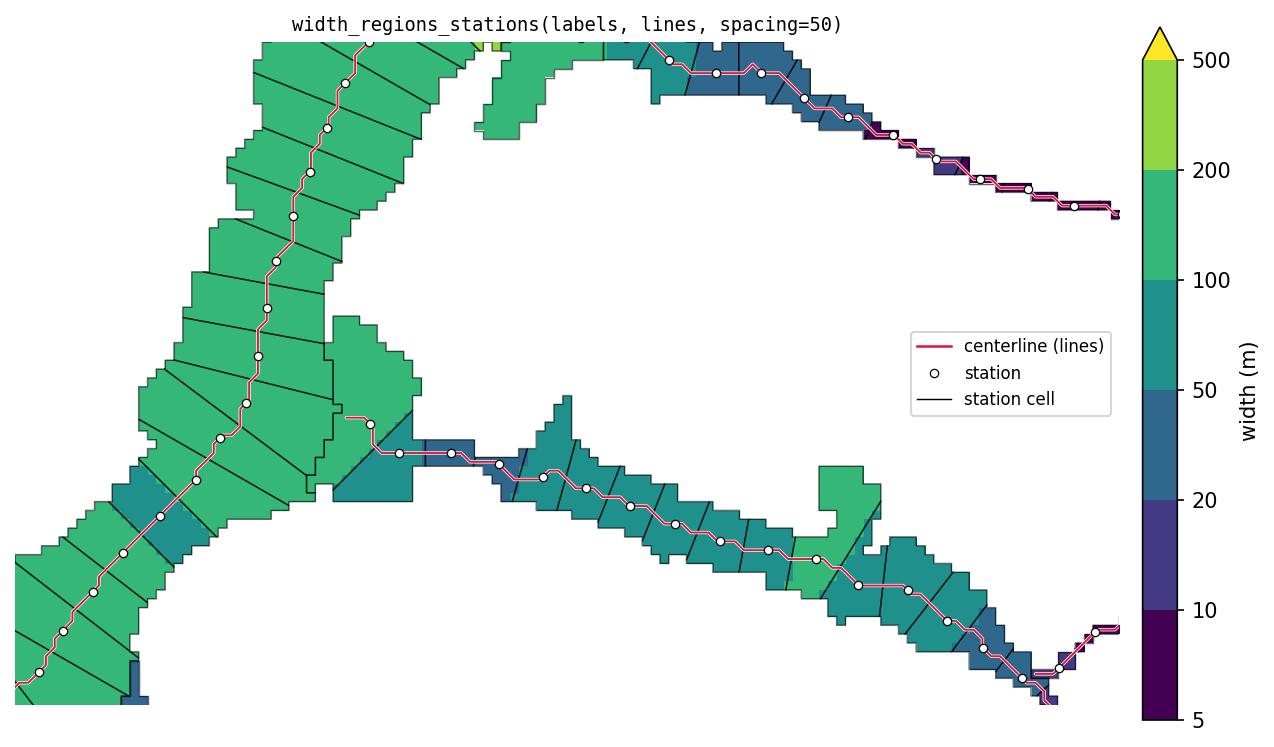
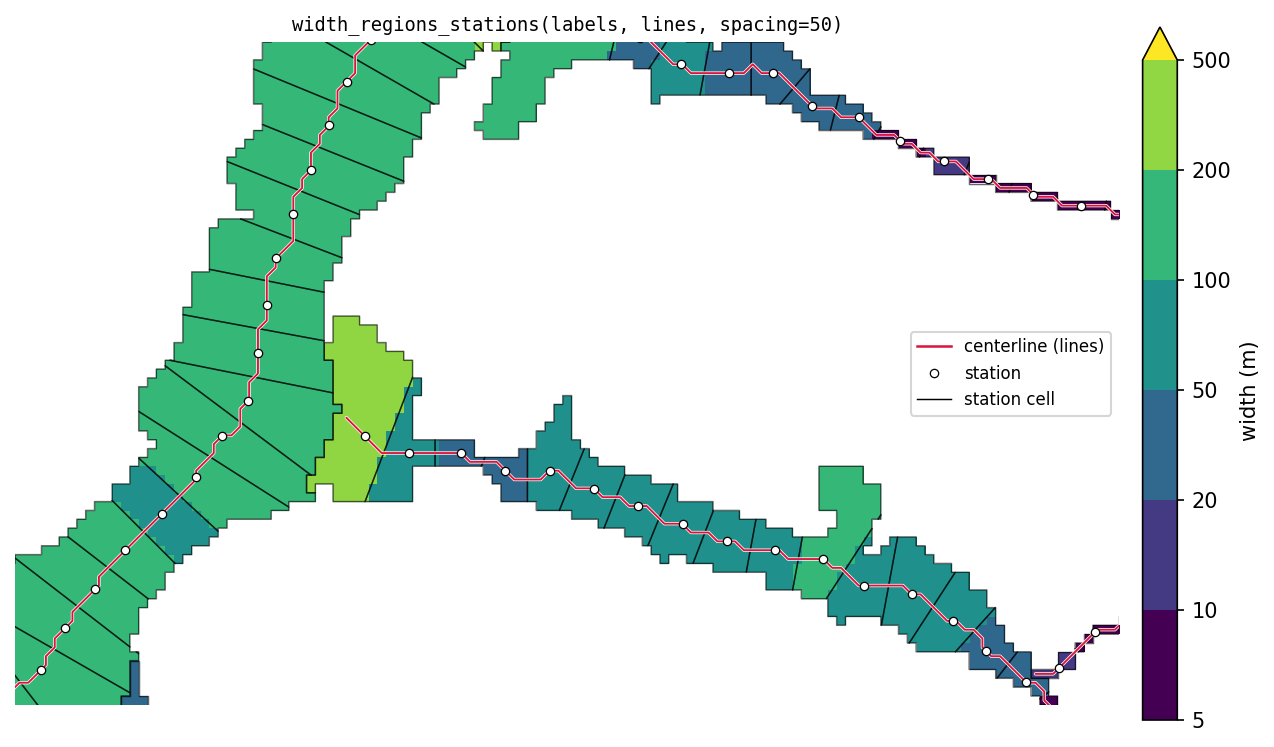
add a step to clean teh centerline where the root meets the skeleton

diff --git a/tests/test_partition.py b/tests/test_partition.py
@@ -158,3 +158,65 @@ def test_length_path_by_uses_max_not_sum():
     assert by_head[(0, 5)]["path_id"] == trunk_path
     assert by_head[(0, 15)]["path_id"] == trunk_path  # longest single route wins
     assert by_head[(3, 5)]["path_id"] != trunk_path
+
+
+def test_net_root_end_has_no_sideways_snap(toy_dataset, end_deviation):
+    # same straightening as centerline(): the bundled root sits beside the
+    # skeleton, which the uncut network meets at a right angle
+    mask, root, tips = toy_dataset
+    mask_np = (np.asarray(mask.values) == 1).astype(np.uint8)
+    _, net, _ = ramify.partition_priority(mask_np, root, tips=tips)
+    outlet = net[net["downstream_segment_id"].isna()].geometry.iloc[0]
+    assert outlet.coords[0] == (root[1] + 0.5, root[0] + 0.5)
+    assert end_deviation(outlet) < 1.0  # ~4.8 px before the cut
+
+
+def test_net_tip_end_skips_skeleton_fork(flared_bar, end_deviation):
+    from shapely.geometry import LineString
+
+    mask, tip, root = flared_bar  # flared end as the (given) tip
+    _, net, _ = ramify.partition_priority(mask, root, tips=[tip])
+    (line,) = net.geometry  # no junctions: one segment, cut at both ends
+    assert line.coords[-1] == (tip[1] + 0.5, tip[0] + 0.5)
+    assert end_deviation(LineString(line.coords[::-1])) < 1.0
+
+
+def _network_is_intact(df, mask_bool):
+    by_id = dict(zip(df["segment_id"], df["pixels"]))
+    for seg_id, down, pixels in zip(df["segment_id"], df["downstream_segment_id"], df["pixels"]):
+        steps = zip(pixels[:-1], pixels[1:])
+        if not all(max(abs(a[0] - b[0]), abs(a[1] - b[1])) == 1 for a, b in steps):
+            return False
+        if not all(mask_bool[r, c] for r, c in pixels):
+            return False
+        # segments run upstream -> downstream, sharing the junction pixel
+        if not pd.isna(down) and pixels[-1] != by_id[int(down)][0]:
+            return False
+    return True
+
+
+def test_end_cut_stops_at_junction_near_root():
+    from skimage.draw import polygon
+    from ramify.partition import _build_network
+
+    # flared end with a thin tributary joining inside the root's end disk:
+    # the root cut must stay on the short root segment, not swallow the
+    # junction
+    mask = np.zeros((50, 70), dtype=np.uint8)
+    rr, cc = polygon([14, 22, 22, 38, 38, 46], [4, 24, 66, 66, 24, 4])
+    mask[rr, cc] = 1
+    mask[1:20, 14:16] = 1
+    root, tips = (30, 4), [(30, 65), (1, 14)]
+    df = _build_network(mask > 0, root, tips, None, "area", None, 1.0)
+    assert len(df) == 3
+    assert (df["downstream_segment_id"].isna()).sum() == 1
+    assert _network_is_intact(df, mask > 0)
+
+
+def test_end_cuts_keep_toy_network_intact(toy_dataset):
+    from ramify.partition import _build_network
+
+    mask, root, tips = toy_dataset
+    mask_bool = np.asarray(mask.values) == 1
+    df = _build_network(mask_bool, root, tips, None, "area", None, 1.0)
+    assert _network_is_intact(df, mask_bool)

diff --git a/tests/test_centerline.py b/tests/test_centerline.py
@@ -106,3 +106,61 @@ def test_output_is_plain_ndarray_free(toy_dataset):
     mask_np = (np.asarray(mask.values) == 1).astype(np.uint8)
     assert isinstance(ramify.centerline(mask, root=root), LineString)
     assert isinstance(ramify.centerline(mask_np, root=root), LineString)
+
+
+def test_root_end_skips_skeleton_fork(flared_bar, end_deviation, inside_mask):
+    mask, root, _ = flared_bar
+    line = ramify.centerline(mask, root=root)
+    assert line.coords[0] == (root[1] + 0.5, root[0] + 0.5)
+    assert end_deviation(line) < 1.0  # uncut path swerves ~5 px into a fork arm
+    assert inside_mask(line, mask)
+
+
+def test_tip_end_skips_skeleton_fork(flared_bar, end_deviation, inside_mask):
+    mask, tip, root = flared_bar  # flared end as the tip this time
+    line = ramify.centerline(mask, root=root, tip=tip)
+    assert line.coords[-1] == (tip[1] + 0.5, tip[0] + 0.5)
+    assert end_deviation(LineString(line.coords[::-1])) < 1.0
+    assert inside_mask(line, mask)
+
+
+def test_root_end_has_no_sideways_snap(toy_dataset, end_deviation, inside_mask):
+    # the bundled root sits on the side of a pointed end; the skeleton runs
+    # past it toward the point, so the uncut path makes a right-angle turn
+    mask, root, _ = toy_dataset
+    mask_np = (np.asarray(mask.values) == 1).astype(np.uint8)
+    line = ramify.centerline(mask_np, root=root)
+    assert end_deviation(line) < 1.0  # ~4.8 px before the cut
+    assert inside_mask(line, mask_np)
+
+
+def test_disk_cut_rejects_chord_leaving_mask():
+    from ramify._skeleton import disk_cut
+
+    # a path that detours around a background pixel; every node's disk is
+    # large enough to reach the anchor, but the straight chord to the far
+    # nodes crosses the hole, so the cut must fall back to a nearer node
+    mask = np.ones((5, 7), dtype=bool)
+    mask[2, 3] = False
+    half_width = np.full(mask.shape, 10.0)
+    path = [(2, 1), (2, 2), (1, 3), (2, 4), (2, 5)]
+    assert disk_cut(path, half_width, mask) == [(2, 1), (1, 3), (2, 4), (2, 5)]
+
+
+def test_disk_cut_leaves_path_when_no_disk_reaches_anchor():
+    from ramify._skeleton import disk_cut
+
+    mask = np.ones((5, 7), dtype=bool)
+    half_width = np.zeros(mask.shape)
+    path = [(2, 0), (2, 1), (2, 2), (1, 3), (2, 4)]
+    assert disk_cut(path, half_width, mask) == path
+
+
+def test_disk_cut_fill_keeps_path_pixel_connected():
+    from ramify._skeleton import disk_cut
+
+    mask = np.ones((7, 9), dtype=bool)
+    half_width = np.full(mask.shape, 10.0)
+    path = [(3, 0), (4, 1), (4, 2), (3, 3), (3, 4), (3, 5)]
+    assert disk_cut(path, half_width, mask) == [(3, 0), (3, 5)]
+    assert disk_cut(path, half_width, mask, fill=True) == [(3, c) for c in range(6)]

diff --git a/ramify/_skeleton.py b/ramify/_skeleton.py
@@ -5,6 +5,7 @@ partition network construction.
 import heapq
 
 import numpy as np
+from skimage.draw import line as draw_line
 from skimage.morphology import skeletonize
 from skimage.graph import MCP_Geometric
 
@@ -183,3 +184,38 @@ def prune_short_leaves(nodes, threshold_fn):
         if not removed_any:
             break
     return kept
+
+
+def disk_cut(path_nodes, half_width, mask_bool, fill=False):
+    """Replace the start of `path_nodes` with one straight chord.
+
+    Near an end, the skeleton forks toward the shape's corners (or runs past a
+    point placed on the side of a pointed end), so a path snapped to it swerves
+    before reaching the trunk. Every path node whose inscribed disk (radius =
+    local half-width, pixel units) reaches the anchor `path_nodes[0]` lies in
+    the same end blob; cut to the farthest such node and join it to the anchor
+    directly. The chord stays inside that disk, hence inside the shape -- up to
+    the slack, so each candidate chord is also rasterized and checked against
+    the mask, falling back to nearer nodes and finally the uncut path.
+
+    `fill=False` joins anchor and node as two consecutive vertices (enough for
+    a LineString); `fill=True` puts the chord's rasterized pixels in between,
+    keeping the path 8-connected for callers that work on pixel lists.
+    """
+    anchor = np.array(path_nodes[0], dtype=float)
+    pts = np.array(path_nodes, dtype=float)
+    d = np.hypot(*(pts - anchor).T)
+    r = half_width[pts[:, 0].astype(int), pts[:, 1].astype(int)]
+    slack = np.maximum(1.0, 0.1 * r)
+    passing = np.nonzero(d <= r + slack)[0]
+
+    for i in passing[::-1]:
+        if i <= 1:
+            break  # already adjacent to the anchor: nothing to cut
+        rr, cc = draw_line(*path_nodes[0], *path_nodes[i])
+        if mask_bool[rr, cc].all():
+            if fill:
+                chord = list(zip(rr.tolist(), cc.tolist()))
+                return chord[:-1] + list(path_nodes[i:])
+            return [path_nodes[0]] + list(path_nodes[i:])
+    return list(path_nodes)

diff --git a/tests/conftest.py b/tests/conftest.py
@@ -25,3 +25,49 @@ def toy_dataset():
     from ramify.data import load
 
     return load()
+
+
+@pytest.fixture
+def flared_bar():
+    """A thick horizontal bar whose left end flares into a fishtail, so the
+    skeleton forks into a Y there. Root sits on the flared end's edge."""
+    from skimage.draw import polygon
+
+    mask = np.zeros((40, 70), dtype=np.uint8)
+    rr, cc = polygon([4, 12, 12, 28, 28, 36], [4, 24, 66, 66, 24, 4])
+    mask[rr, cc] = 1
+    return mask, (20, 4), (20, 65)
+
+
+@pytest.fixture
+def end_deviation():
+    """How far the first `length` of a line strays from the straight chord
+    over that stretch: ~0 for a clean end, several pixels for a swerve into a
+    skeleton fork arm or a sideways snap."""
+    from shapely.geometry import LineString, Point
+
+    def fn(line, length=15.0):
+        chord = LineString([line.coords[0], line.interpolate(length).coords[0]])
+        return max(
+            chord.distance(Point(p))
+            for p in line.coords
+            if line.project(Point(p)) <= length
+        )
+
+    return fn
+
+
+@pytest.fixture
+def inside_mask():
+    """Whether every pixel a (pixel_size=1, numpy-grid) line crosses is in `mask`."""
+    from skimage.draw import line as draw_line
+
+    def fn(line, mask):
+        pix = [(int(y - 0.5), int(x - 0.5)) for x, y in line.coords]
+        for (r0, c0), (r1, c1) in zip(pix[:-1], pix[1:]):
+            rr, cc = draw_line(r0, c0, r1, c1)
+            if not mask[rr, cc].all():
+                return False
+        return True
+
+    return fn

diff --git a/ramify/partition.py b/ramify/partition.py
@@ -28,6 +28,7 @@ from ._skeleton import (
     prune_short_leaves,
     path_length,
     path_weight,
+    disk_cut,
 )
 from .centerline import centerline
 
@@ -153,8 +154,28 @@ def _build_network(mask_bool, root, tips, min_length, path_by, open_boundary, pi
             n = parent[n]
 
     segments = break_into_segments(kept, parent, tip_nodes, root)
+    segments = _cut_end_segments(
+        segments, root, set(tip_points), half_width_pixels(mask_bool, None), mask_bool
+    )
     edt = local_half_width(mask_bool, open_boundary, pixel_size)
     return _annotate(segments, edt, pixel_size, path_by, root)
+
+
+def _cut_end_segments(segments, root, anchors, half_width, mask_bool):
+    # Straighten the network where it meets the root and each given tip (see
+    # `disk_cut`). Each cut is confined to the one segment touching that
+    # point: a segment's other end is a junction, so the tree's topology and
+    # shared junction pixels are untouched. Auto-detected tips are skeleton
+    # endpoints already and have nothing to cut toward. Segments run
+    # upstream -> downstream, so the root is at seg[-1] and a tip at seg[0].
+    out = []
+    for seg in segments:
+        if seg[-1] == root:
+            seg = disk_cut(seg[::-1], half_width, mask_bool, fill=True)[::-1]
+        if seg[0] in anchors:
+            seg = disk_cut(seg, half_width, mask_bool, fill=True)
+        out.append(seg)
+    return out
 
 
 def _annotate(segments, edt, pixel_size, path_by, root):

diff --git a/ramify/centerline.py b/ramify/centerline.py
@@ -13,6 +13,7 @@ from ._skeleton import (
     endpoints,
     tree_path,
     prune_short_leaves,
+    disk_cut,
 )
 
 
@@ -25,7 +26,10 @@ def centerline(mask, root=None, tip=None, pixel_size=None) -> LineString:
     - `tip` without `root`: raises `ValueError`.
 
     `root` / `tip` are `(row, col)` pixel indices. Orientation: starts at
-    `root` when given; otherwise deterministic but unspecified.
+    `root` when given; otherwise deterministic but unspecified. Near a given
+    `root` / `tip`, the line leaves the skeleton and runs straight to the
+    point from the farthest skeleton pixel whose inscribed disk reaches it,
+    so it doesn't swerve into the forks a skeleton makes at a shape's end.
 
     This is the *longest* path through the shape, deliberately not the
     heaviest (widest) one that `partition_priority`/`partition_nearest` would
@@ -108,6 +112,11 @@ def centerline(mask, root=None, tip=None, pixel_size=None) -> LineString:
         b = min(n for n in candidates1 if dist1[n] == best)
 
         path_nodes = list(reversed(tree_path(parent1, b, stop=a)))
+
+    if root is not None:
+        path_nodes = disk_cut(path_nodes, half_width, mask_bool)
+        if tip is not None:
+            path_nodes = disk_cut(path_nodes[::-1], half_width, mask_bool)[::-1]
 
     rows = np.array([n[0] for n in path_nodes])
     cols = np.array([n[1] for n in path_nodes])

diff --git a/scripts/gen_images.py b/scripts/gen_images.py
@@ -265,13 +265,13 @@ save("quickstart.png", fig, tight=False)
 
 with warnings.catch_warnings():
     warnings.simplefilter("ignore")
-    _, net_ml, _ = ramify.partition_priority(mask, root, min_length=15.0)
+    _, net_ml, _ = ramify.partition_priority(mask, root, min_length=100.0)
     _, net_all, _ = ramify.partition_priority(mask, root)
 
 fig, axes = plt.subplots(1, 3, figsize=(16, 6))
 for ax, net_i, title in [
     (axes[0], net, f"tips=tips ({len(tips)} tips)"),
-    (axes[1], net_ml, f"min_length=15 ({net_ml['path_id'].nunique()} paths)"),
+    (axes[1], net_ml, f"min_length=100 ({net_ml['path_id'].nunique()} paths)"),
     (axes[2], net_all, f"neither ({net_all['path_id'].nunique()} paths)"),
 ]:
     ax.imshow(mask_arr, cmap="gray_r", alpha=0.25)
